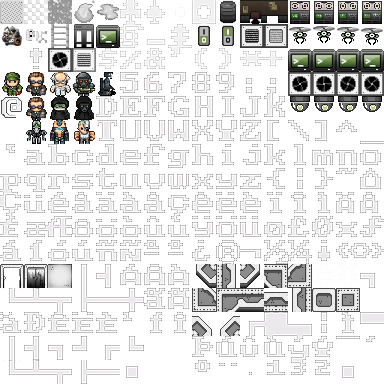
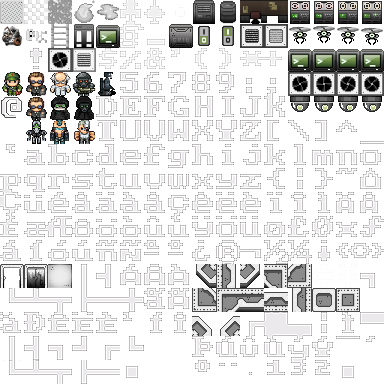
pyinstaller build file and compiler error fixes

Changed region(s): [[0.5, 0.0, 0.5625, 0.0625], [0.4375, 0.0625, 0.5, 0.125]]

diff --git a/src/level/level.py b/src/level/level.py
@@ -6,7 +6,6 @@ import random as rd
 import copy as cp
 import itertools as it
 import colorsys as cs
-import hashlib as hl
 
 from src.level.map import Map, Rectangle, Cell
 from src.level.corp import Corp
@@ -16,7 +15,7 @@ from src.level.room.hall import Hall, ServerFarm, GreenHouse, Storage
 from src.level.room.dome import Dome
 
 from src.grid.electronics import Terminal, Server, MasterSwitch
-from src.object.light import Lamp, DoorLamp
+from src.object.lamp import Lamp, DoorLamp
 from src.object.door import Vent, SecDoor, Ladder
 
 from src.render.render import Render
@@ -68,11 +67,10 @@ class Level(Map):
             for room in tier:
                 yield room
 
-    def load(self, seed='Test', random=False, debug=False):
+    def load(self, seed=1234, random=False, debug=False):
         self.clear()
 
         if not random:
-            seed = int(hl.sha1(seed).hexdigest(), 16) % (10 ** 8)
             rd.seed(seed)
             np.random.seed(seed)
 
@@ -311,7 +309,7 @@ class Level(Map):
             shape = rd.choice(shapes)
 
             # number of tries to find a valid child
-            for i in range(100):
+            for i in range(50):
                 direction = rd.choice(directions)
                 alignment = rd.choice([MIN, MAX])
 

diff --git a/src/render/render.py b/src/render/render.py
@@ -33,8 +33,8 @@ class Render:  # a rectangle on the map. used to characterize a room.
                  Render.FONT + ", size=12x24, codepage=437")
         term.set("0x1000: " + Render.GRAPHICSPATH + Render.TILES +
                  ", size=24x24, spacing=2x1, align=center")
-        term.set("0x2000: " + Render.GRAPHICSPATH + Render.LOADSCREEN +
-                 ", size=1364x768, align=top-left")
+#        term.set("0x2000: " + Render.GRAPHICSPATH + Render.LOADSCREEN +
+#                 ", size=1364x768, align=top-left")
         term.set("0x3000: " + Render.GRAPHICSPATH + Render.TITLE +
                  ", size=800x285, align=center")
 

diff --git a/src/object/furniture.py b/src/object/furniture.py
@@ -30,7 +30,7 @@ class Hydroponics(Object):
 
 
 class Container(Object):
-    def __init__(self, cell=None, char=0x1008, color=COLOR['WHITE'], content=None):
+    def __init__(self, cell=None, char=0x1017, color=COLOR['WHITE'], content=None):
         Object.__init__(self, cell, char, color)
 
         self.content = content

diff --git a/src/level/room/room.py b/src/level/room/room.py
@@ -7,7 +7,6 @@ import copy as cp
 import itertools as it
 
 from src.object.furniture import Container, Barrel, Desk
-from src.grid.server import Terminal, Server
 from src.object.door import Vent, SecDoor, AutoDoor
 from src.object.item import Item, Key, PlotDevice
 

diff --git a/src/object/door.py b/src/object/door.py
@@ -1,7 +1,7 @@
 from src.globals import *
 
 from src.object.object import Object
-from src.grid.server import Electronics
+from src.grid.electronics import Electronics
 from src.object.item import Key
 from src.effect.effect import Fuel, Fog
 
